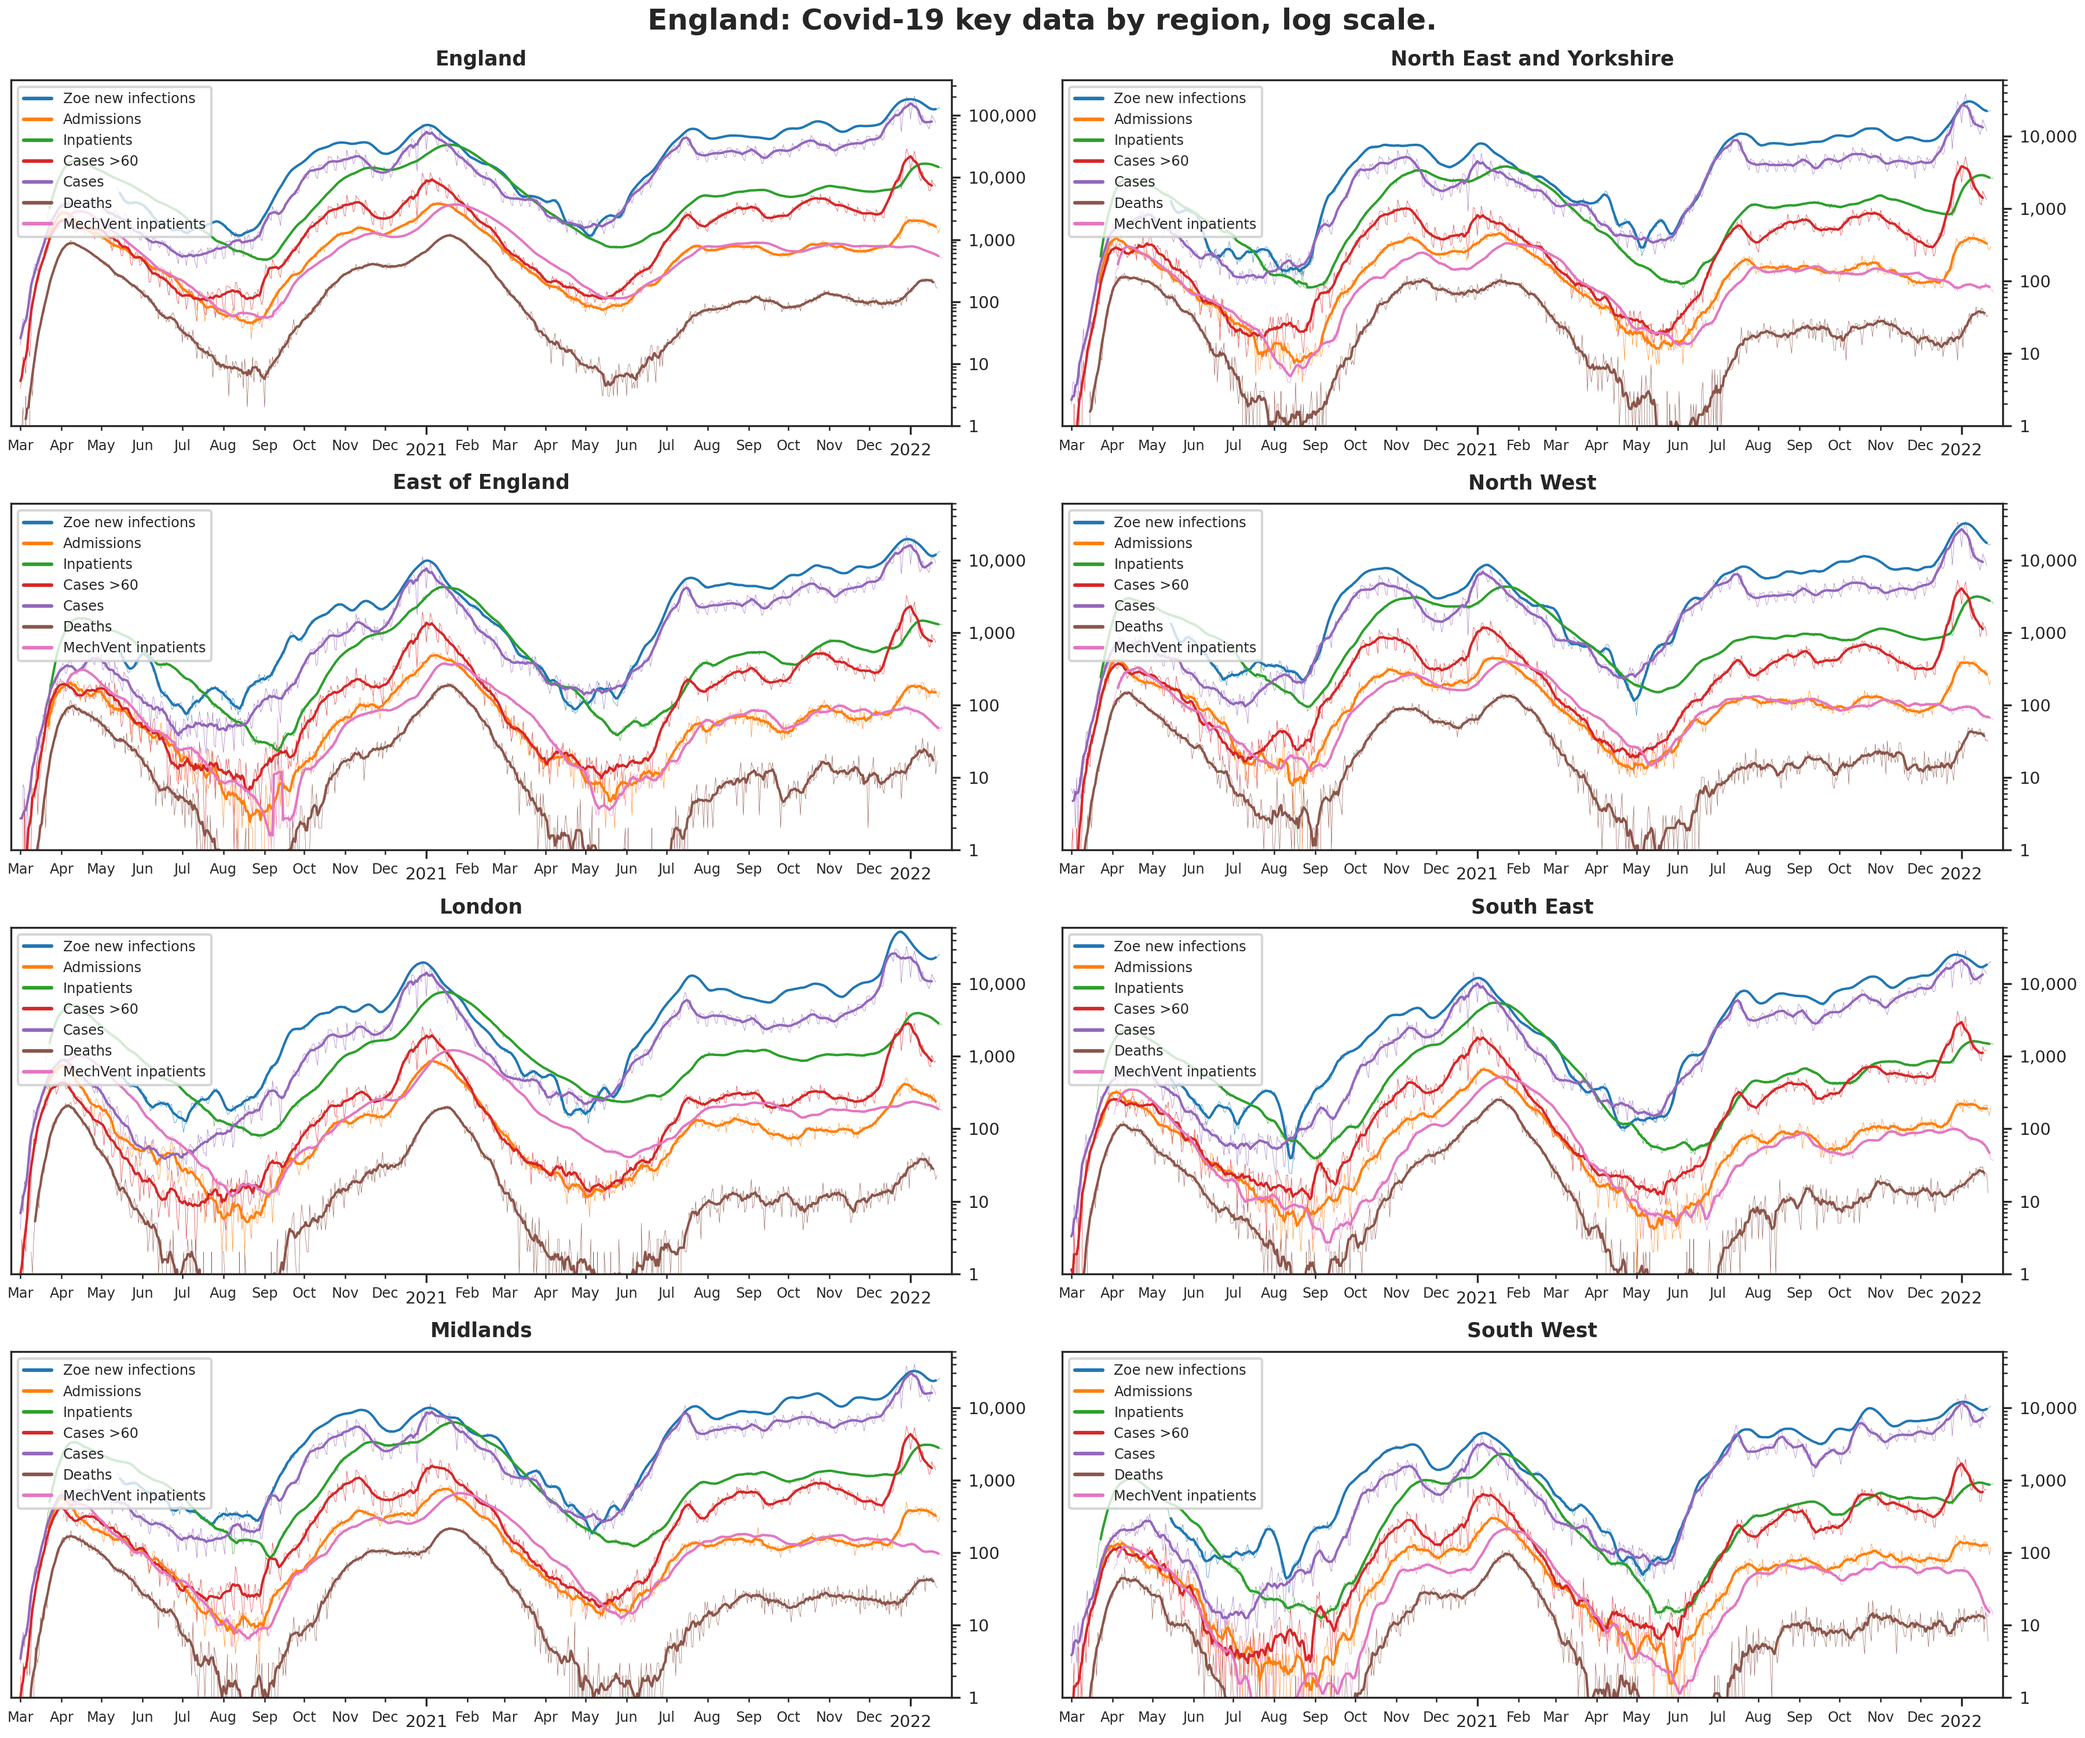
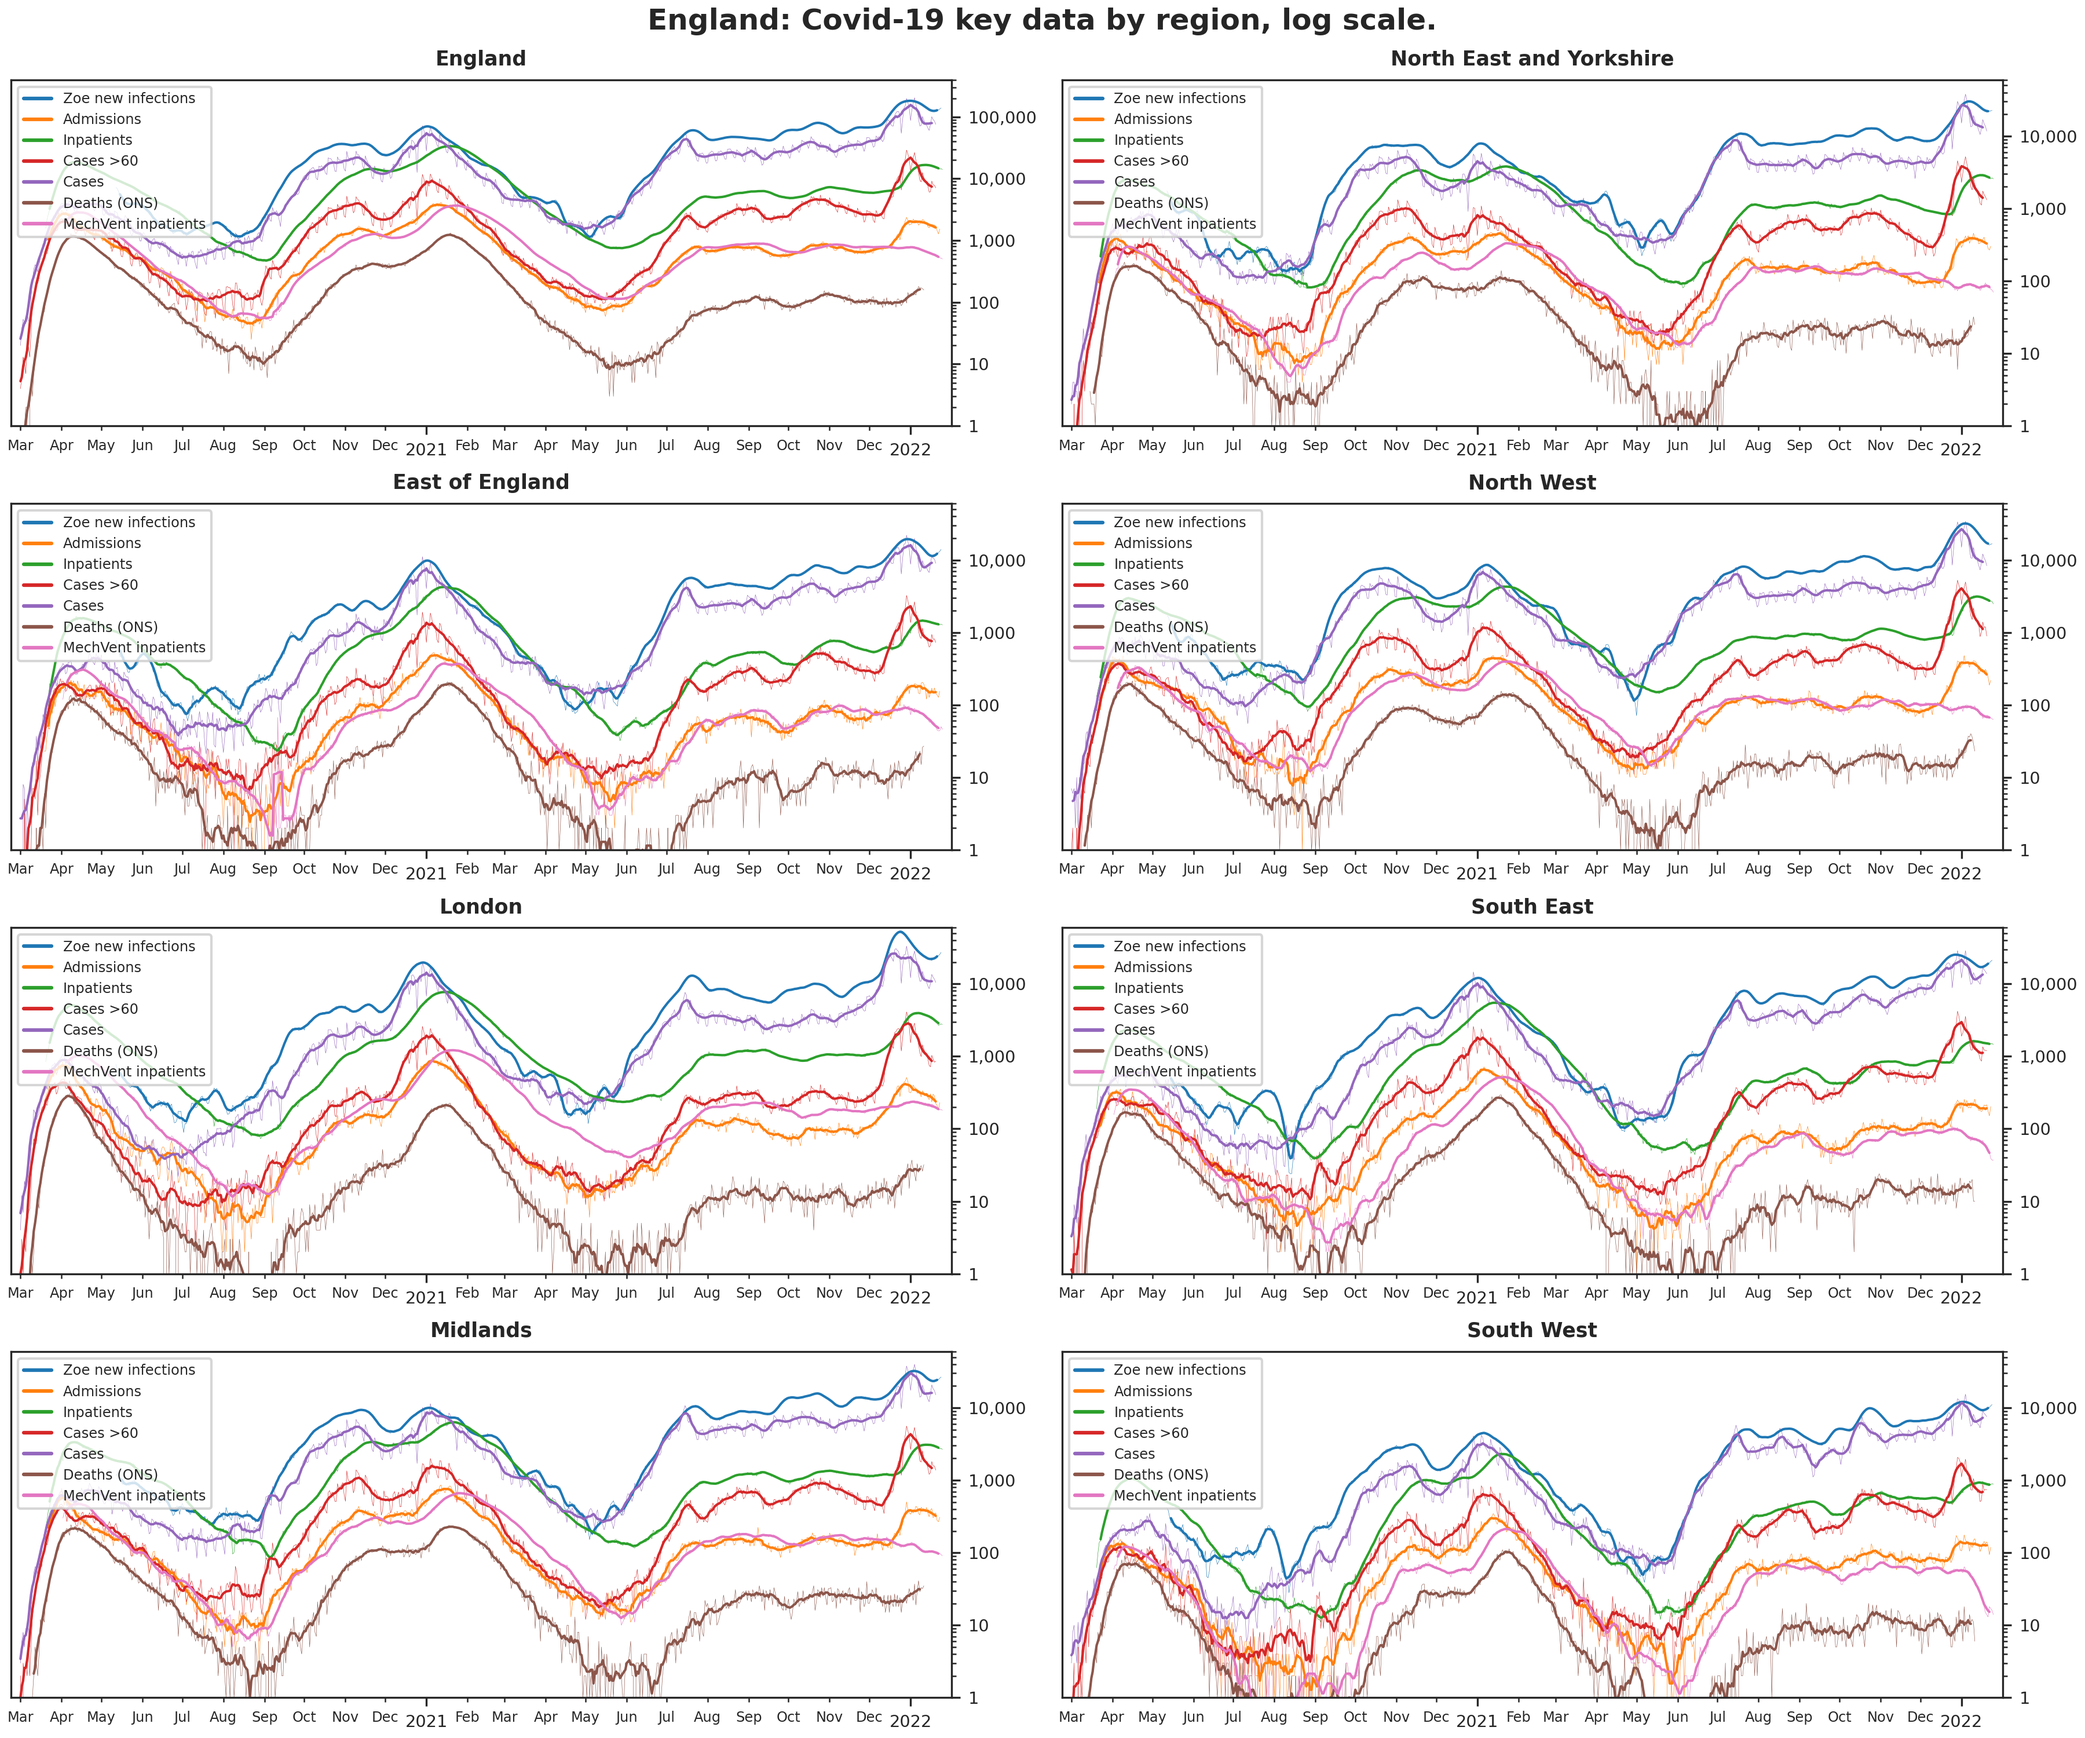
moved deaths to ONS date-of-death rather than dashboard-28-days

diff --git a/src/modules/dataframe_builder.py b/src/modules/dataframe_builder.py
@@ -101,7 +101,6 @@ class GovCall:
 
 
 class Deaths(ProcessedData, GovCall):
-    
     def _fetch_area(self, area_name: str) -> pd.DataFrame:
         areas = {
             "england": ["areaType=nation", "areaName=England"],
@@ -110,7 +109,7 @@ class Deaths(ProcessedData, GovCall):
         deaths_query = {
             "date": "date",
             "region": "areaName",
-            "deaths": "newDeaths28DaysByDeathDate"
+            "deaths": "newDailyNsoDeathsByDeathDate",
         }
         out_df = self.timelogged_call_gov_api(
             callname=f"deaths ({area_name})",
@@ -118,7 +117,7 @@ class Deaths(ProcessedData, GovCall):
             structure=deaths_query,
         )
         return out_df
-    
+
     def fetch_raw_data(self):
         deaths_df = pd.concat(
             [self._fetch_area("regions"), self._fetch_area("england")],
@@ -130,7 +129,7 @@ class Deaths(ProcessedData, GovCall):
 
     def _process_data(self, raw_data: pd.DataFrame) -> pd.DataFrame:
         deaths_df = raw_data
-        #england = deaths_df.pivot_table(index="date", columns="region").sum(axis=1)
+        # england = deaths_df.pivot_table(index="date", columns="region").sum(axis=1)
         midlands = self._concatenate_regions(
             deaths_df,
             input_regions=["East Midlands", "West Midlands"],
@@ -166,7 +165,7 @@ class Deaths(ProcessedData, GovCall):
         out_dataframe["region"] = output_label
         return out_dataframe
 
-    
+
 class Healthcare(ProcessedData, GovCall):
     def __init__(self):
         # so I don't hit the db repeatedly
@@ -332,7 +331,7 @@ def make_default_dataframes():
             "Inpatients": inpatients,
             "Cases >60": o60,
             "Cases": cases,
-            "Deaths": deaths,
+            "Deaths (ONS)": deaths,
             "MechVent inpatients": icu,
         }
     )
